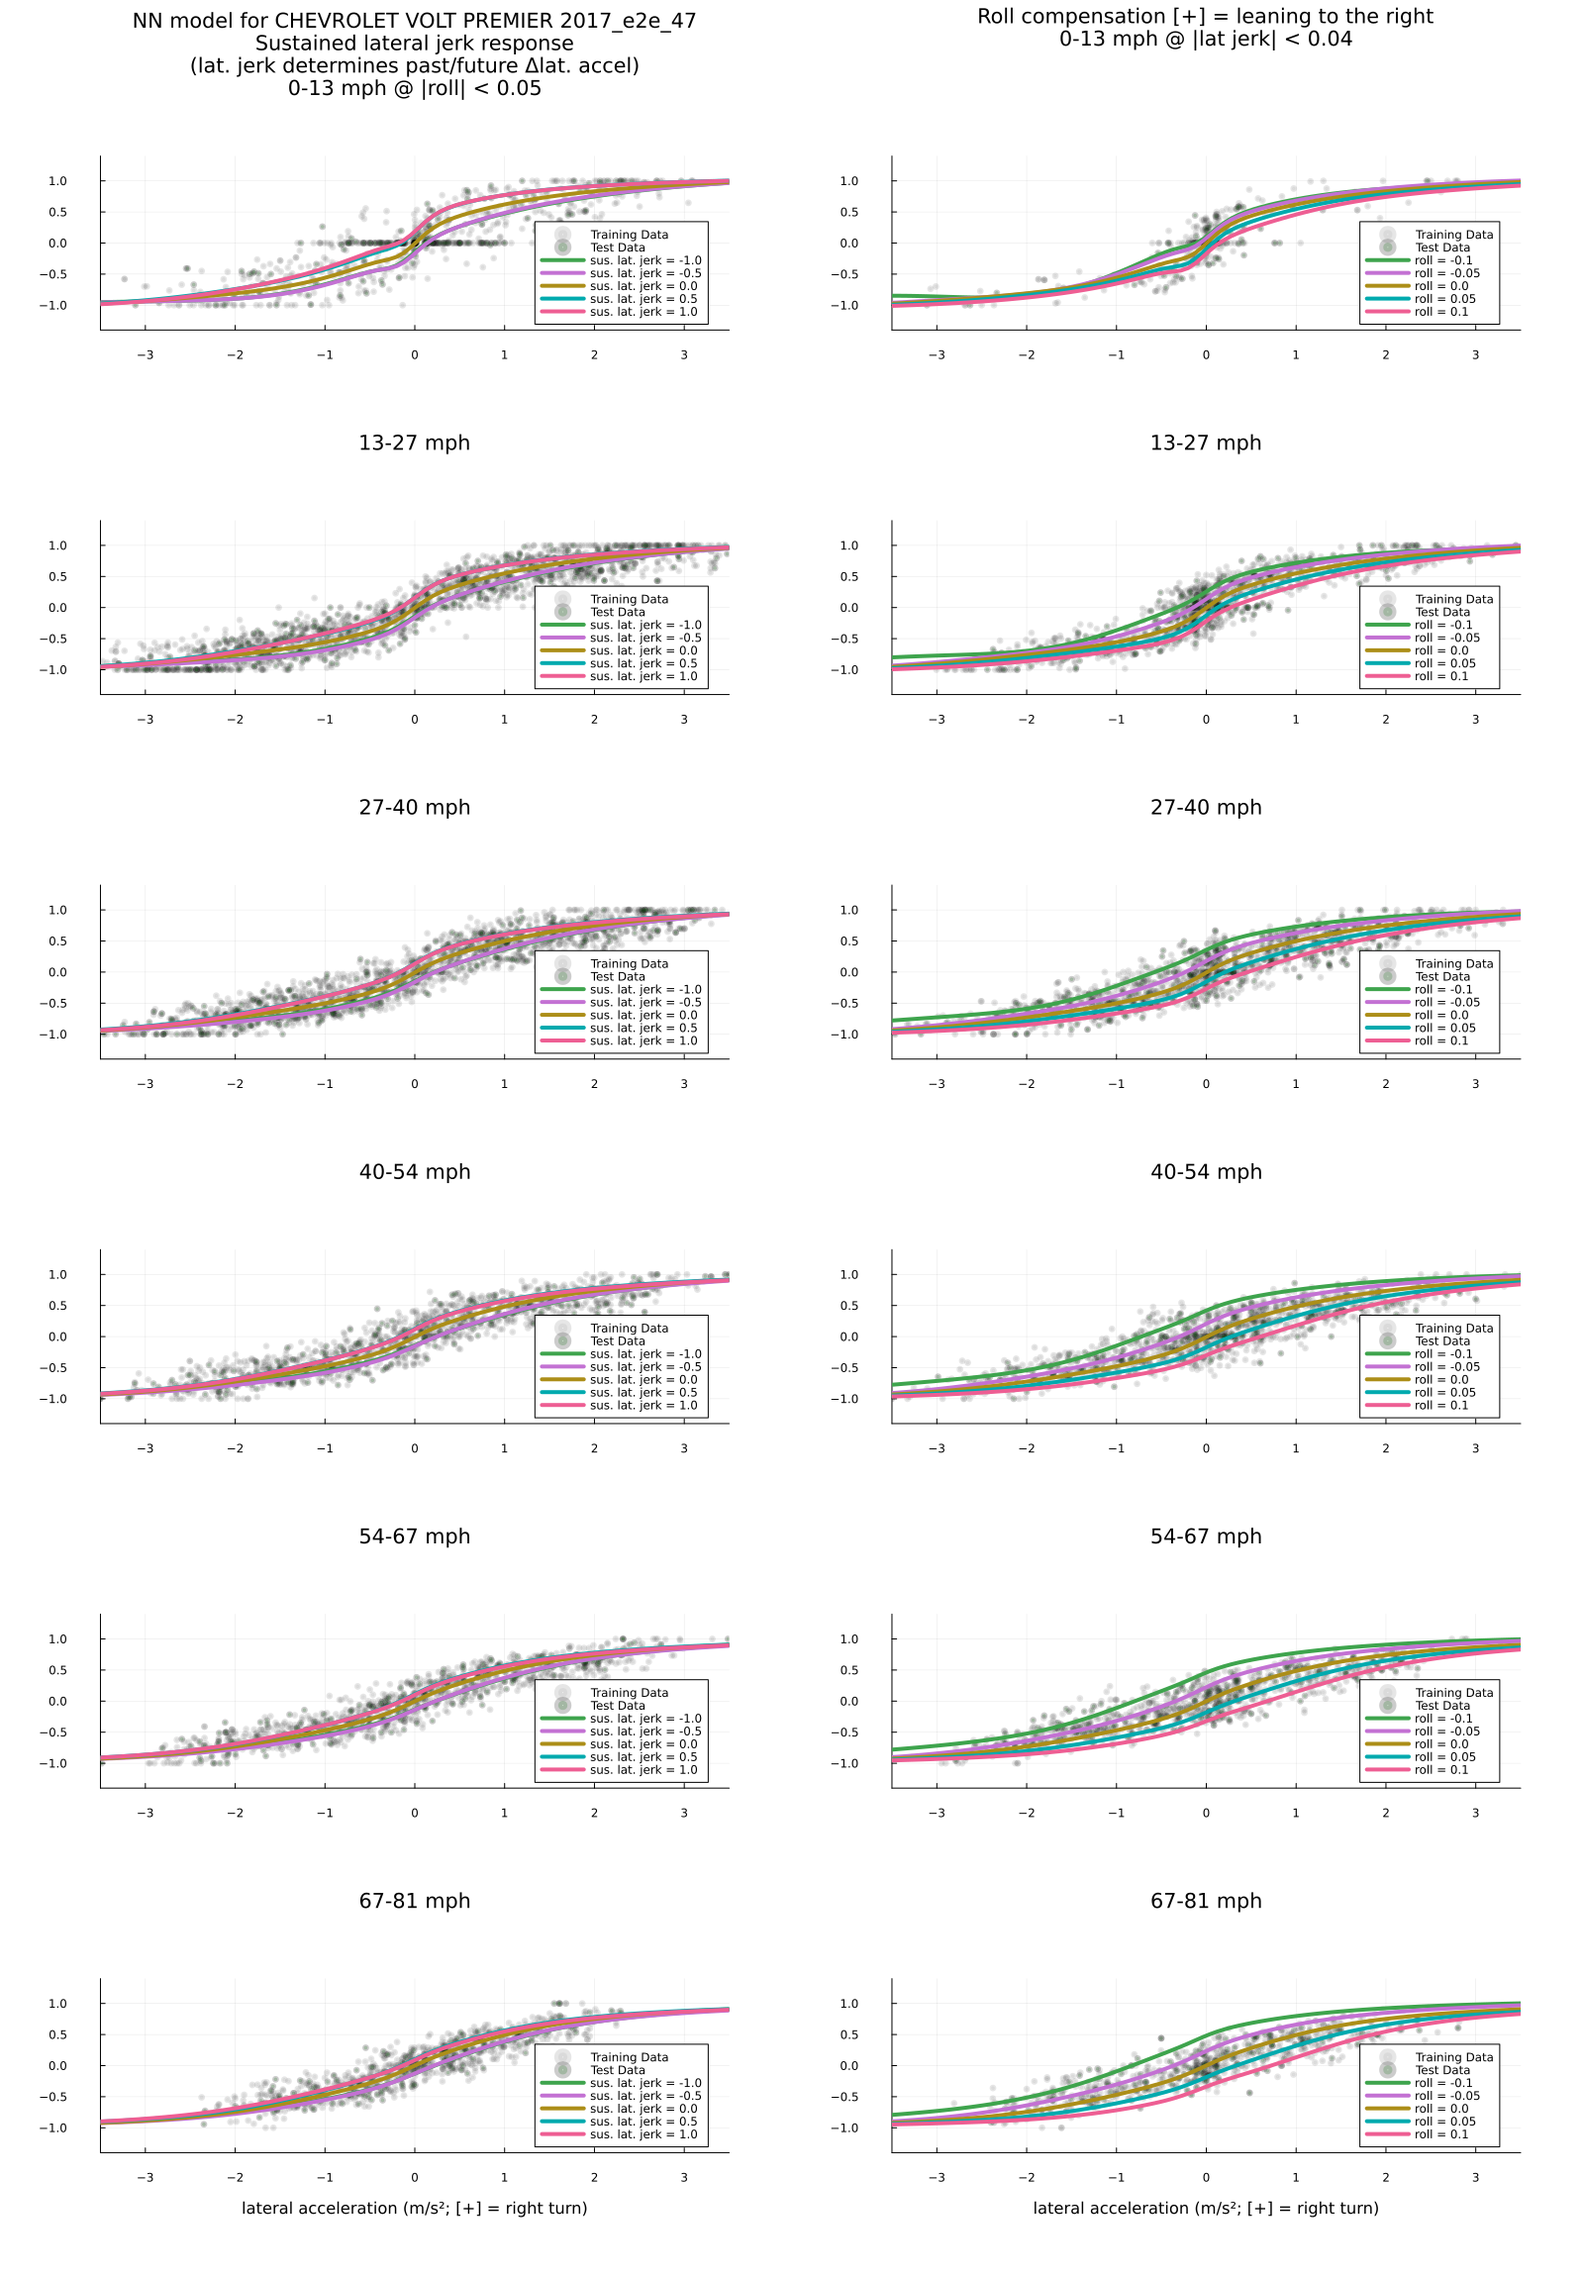
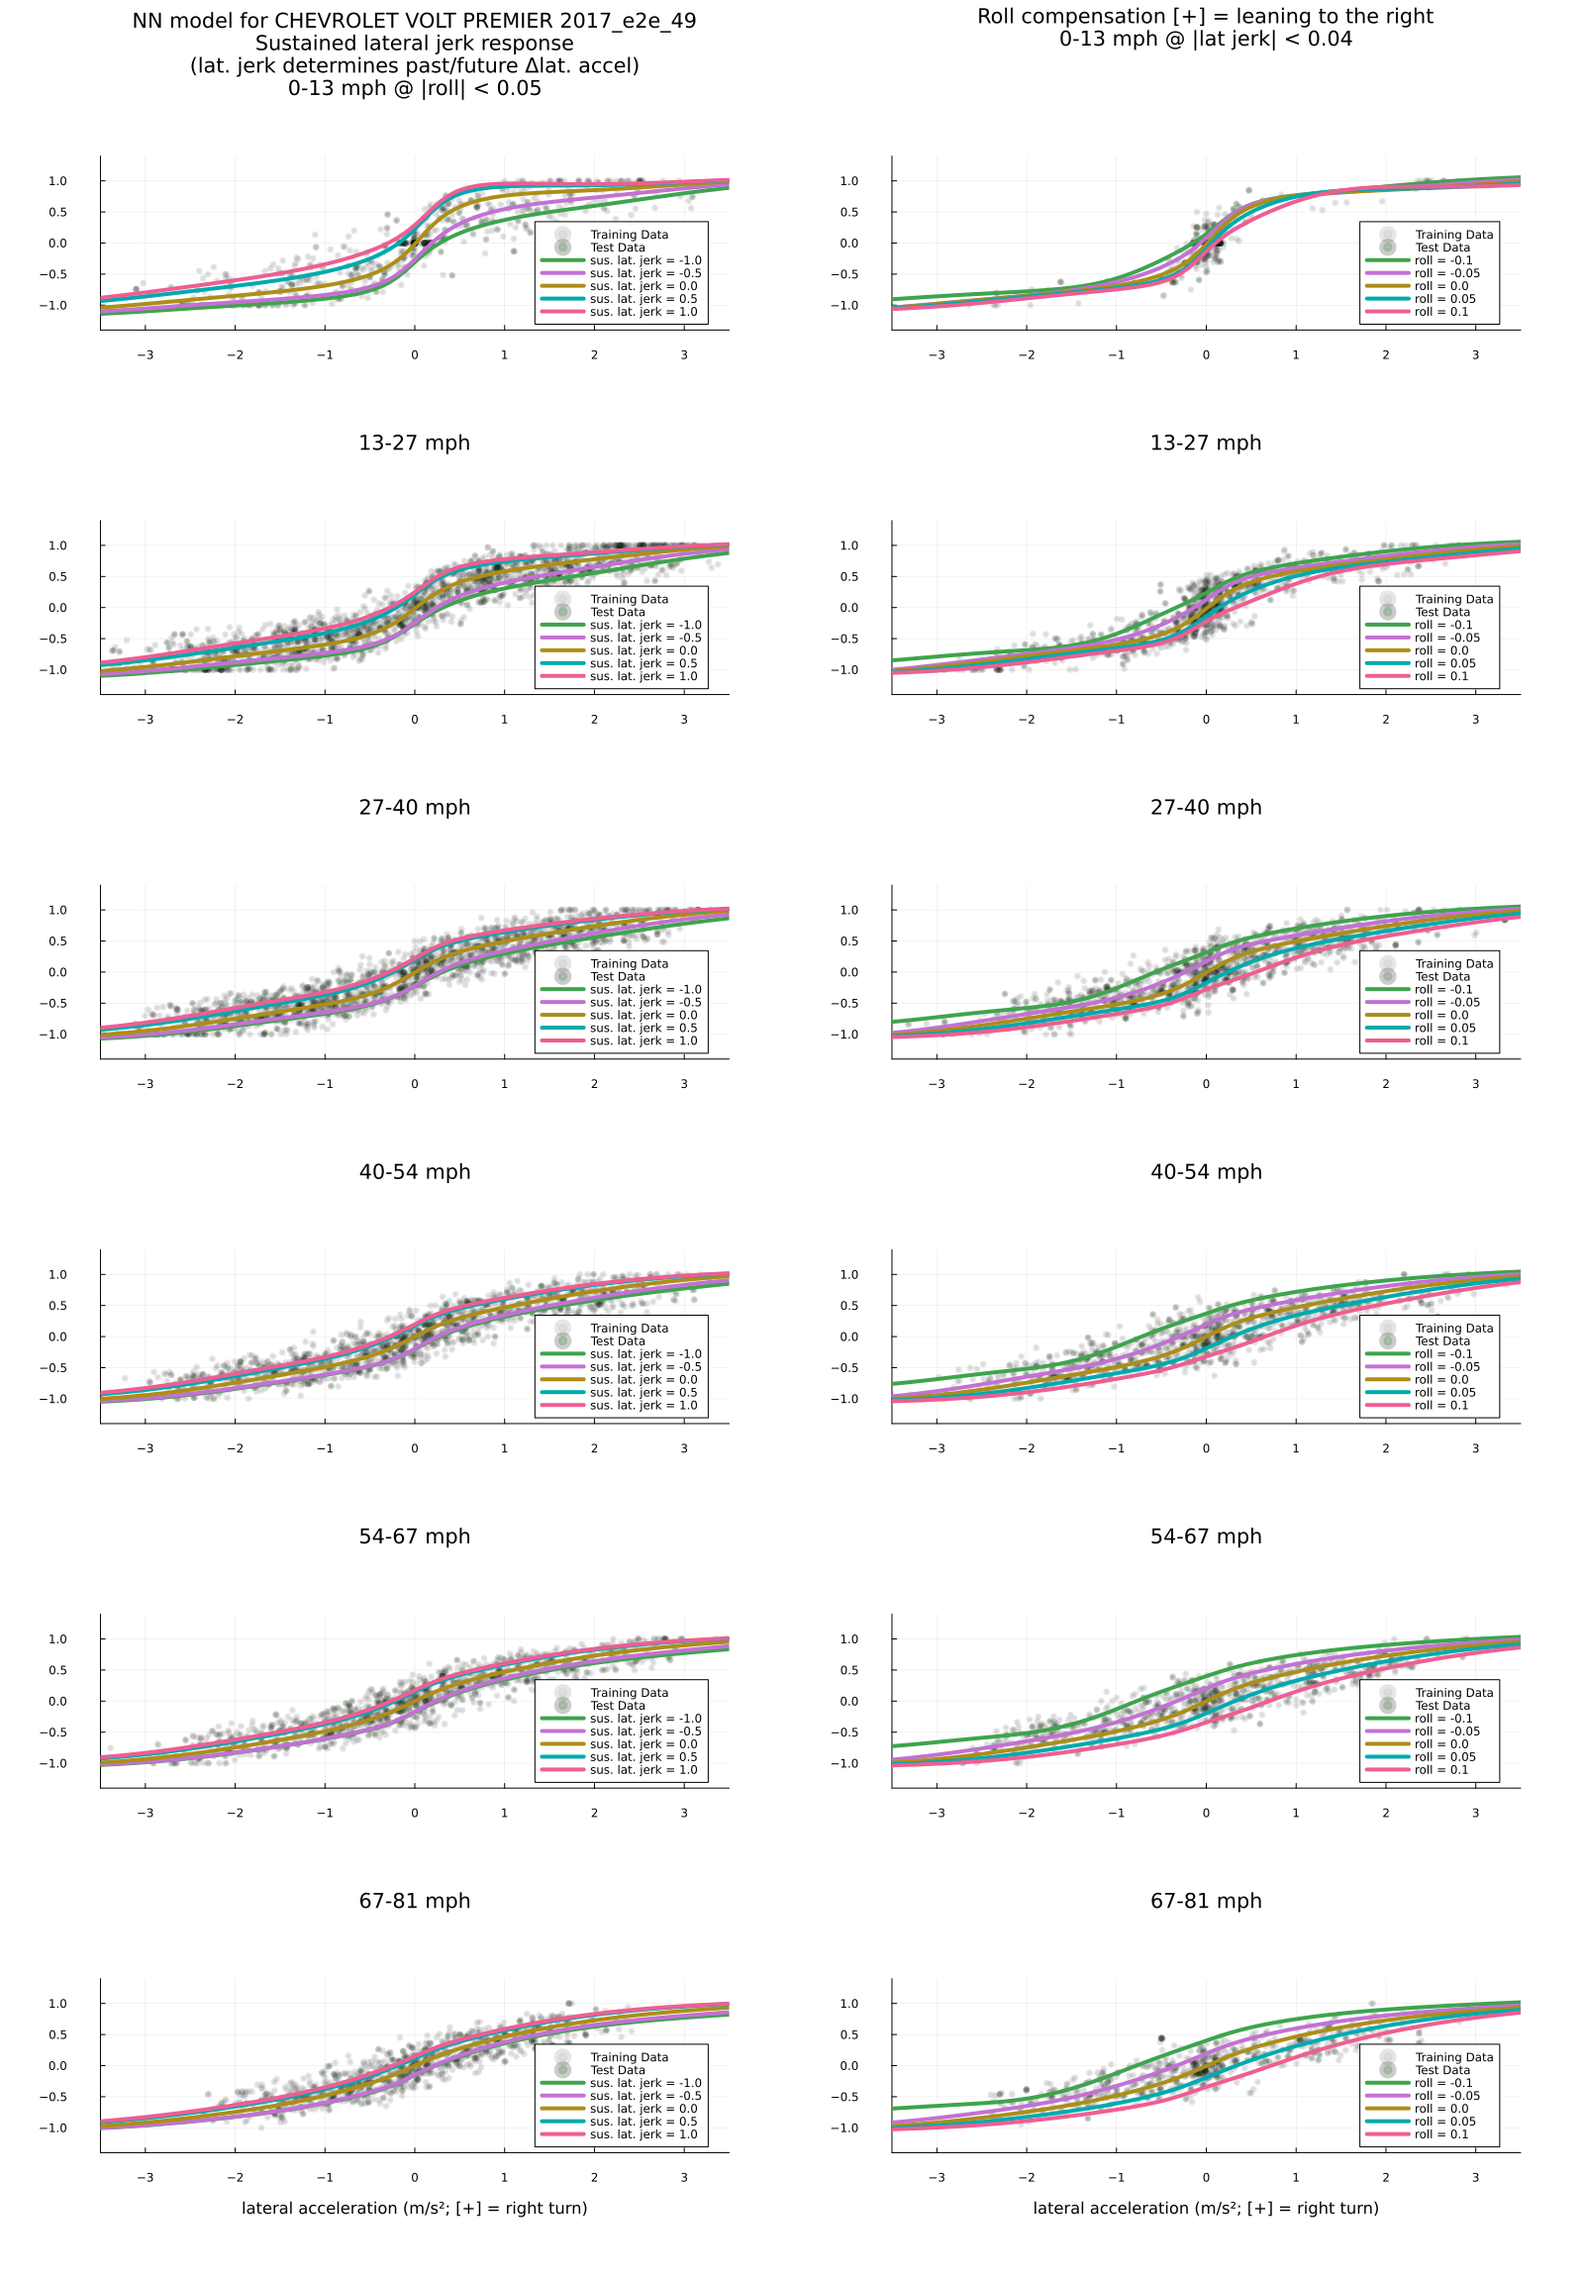
update volt NNFF

diff --git a/selfdrive/controls/lib/latcontrol_torque.py b/selfdrive/controls/lib/latcontrol_torque.py
@@ -49,13 +49,13 @@ class LatControlTorque(LatControl):
       # Past value is computed using observed car lat accel, jerk, and roll
       # actual current values are passed as the -0.3s value, the desired values are passed as the actual lat accel etc values, and the future values are interpolated from predicted planner/model data
       self.nnff_time_offset = CP.steerActuatorDelay + 0.2
-      future_times = [0.2, 0.4]
+      future_times = [0.3, 0.7]
       self.nnff_future_times = [i + self.nnff_time_offset for i in future_times]
       self.nnff_lat_accels_filtered = [FirstOrderFilter(0.0, 0.0, 0.01) for i in [0.0] + future_times] # filter the desired and future lateral accel values
       self.nnff_alpha_up_down = [0.3, 0.15] # for increasing/decreasing magnitude of lat accel/jerk
       # Scale down desired lateral acceleration under moderate curvature to prevent cutting corners.
-      self.nnff_la_scale_k_bp = [0.001, 0.005, 0.02, 0.06, 0.1] 
-      self.nnff_la_scale_k_v = [1.0, 0.9, 0.8, 0.8, 1.0]
+      self.nnff_la_scale_k_bp = [0.001, 0.005, 0.06, 0.1] 
+      self.nnff_la_scale_k_v = [1.0, 0.75, 0.75, 1.0]
       # At very low speeds, stop downscaling lateral accel to still allow for hard turns.
       # We'll do this by taking the max of the two scaling factors.
       self.nnff_la_scale_v_bp = [6.0, 10.0]
